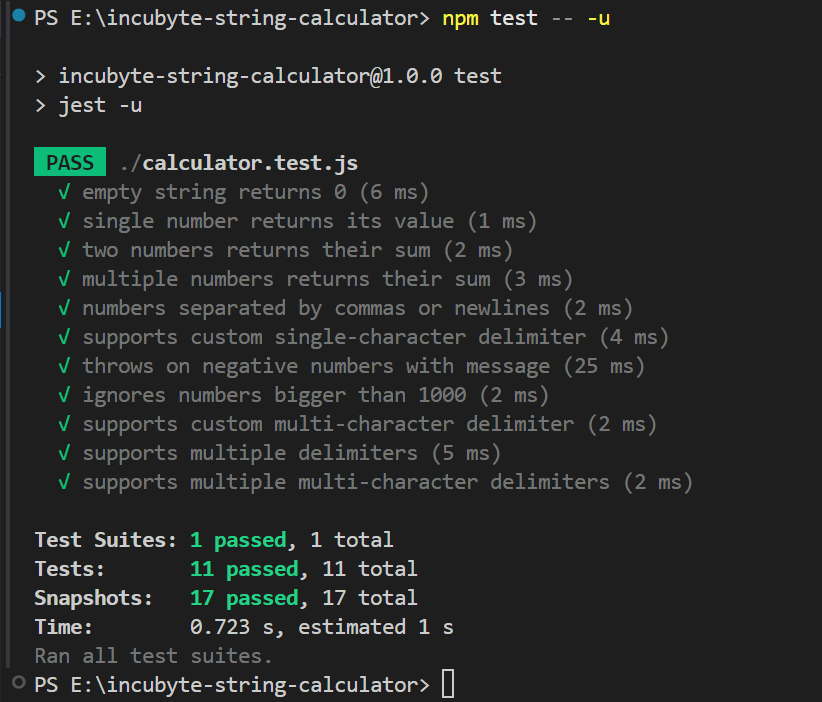
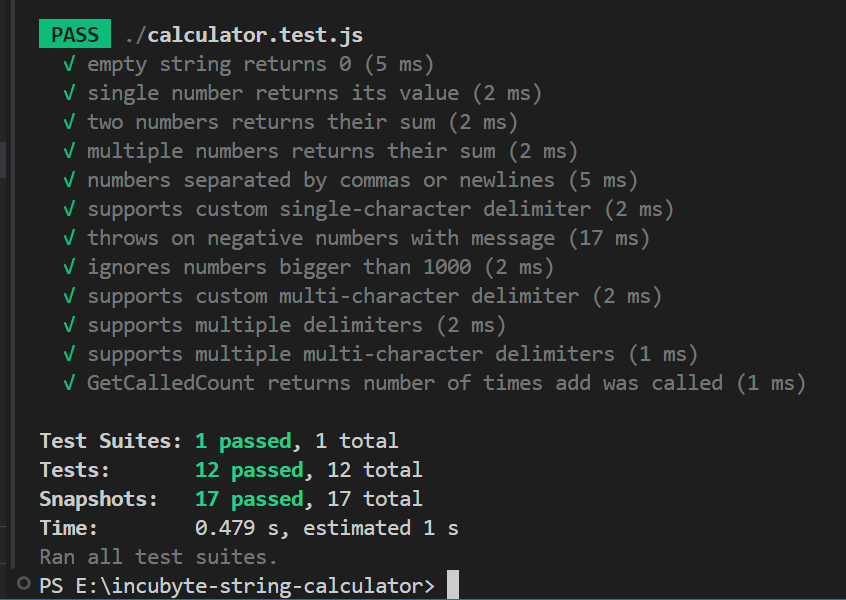
Update README and add latest passing tests screenshot

Changed region(s): [[0.0, 0.0, 1.0, 1.0]]

diff --git a/README.md b/README.md
@@ -43,7 +43,8 @@ I chose **Jest** because it is a powerful and easy-to-use testing framework. Jes
 - Supports multiple delimiters (e.g. `//[*][%]\n1*2%3`, `//[***][%%]\n1***2%%3`).
 - Ignores numbers greater than 1000 (e.g. `2,1001` returns `2`).
 - Throws an exception when negative numbers are provided, listing all negative numbers in the error message.
-- **Extensive new test cases:** All advanced cases and edge conditions are now tested, including custom delimiter syntax, multiple and multi-character delimiters, negative number checks, and numbers > 1000.
+- Tracks the number of times the `add()` method is called (`getCalledCount()`).
+- **Extensive test cases:** All advanced cases and edge conditions are tested, including custom delimiter syntax, multiple and multi-character delimiters, negative number checks, and numbers > 1000.
 
 ---
 
@@ -80,17 +81,19 @@ I chose **Jest** because it is a powerful and easy-to-use testing framework. Jes
 ## Example Usage
 
 ```js
-const { add } = require('./calculator');
+const { StringCalculator } = require('./calculator');
+const calc = new StringCalculator();
 
-console.log(add("")); // 0
-console.log(add("1")); // 1
-console.log(add("1,2")); // 3
-console.log(add("1\n2,3")); // 6
-console.log(add("//;\n1;2")); // 3
-console.log(add("//[***]\n1***2***3")); // 6
-console.log(add("//[*][%]\n1*2%3")); // 6
-console.log(add("//[***][%%]\n1***2%%3")); // 6
-console.log(add("2,1001")); // 2
+console.log(calc.add("")); // 0
+console.log(calc.add("1")); // 1
+console.log(calc.add("1,2")); // 3
+console.log(calc.add("1\n2,3")); // 6
+console.log(calc.add("//;\n1;2")); // 3
+console.log(calc.add("//[***]\n1***2***3")); // 6
+console.log(calc.add("//[*][%]\n1*2%3")); // 6
+console.log(calc.add("//[***][%%]\n1***2%%3")); // 6
+console.log(calc.add("2,1001")); // 2
+console.log(calc.getCalledCount()); // 9
 ```
 
 ---
@@ -108,6 +111,7 @@ The solution is extensively tested with Jest, including snapshot testing. Covere
 - Multiple delimiters (including multi-character and combinations).
 - Numbers greater than 1000 are ignored.
 - Negative numbers throw errors listing all negative values.
+- `getCalledCount()` method works.
 - **All new and advanced edge cases are covered via updated test suite.**
 
 You can view all the test cases in [`calculator.test.js`](./calculator.test.js).
